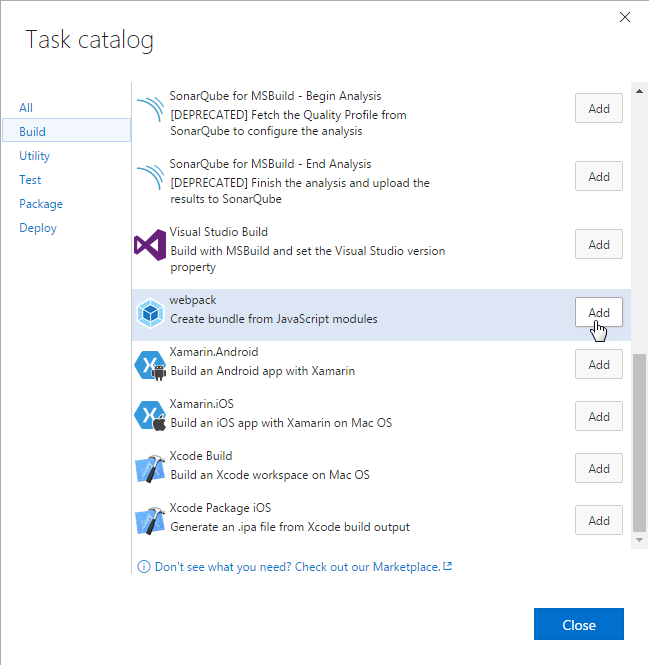
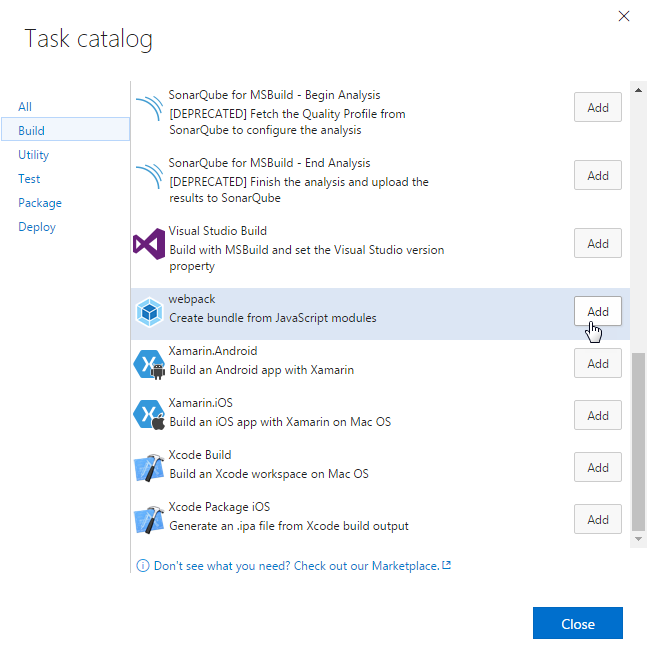
Task catalog is screenshot is updated.

diff --git a/README.md b/README.md
@@ -14,7 +14,7 @@ Source code can be found on [GitHub](https://github.com/Dealogic/webpack-vsts-ex
 
 Add the task to your build configuration:
 
-![Add webpack task]()
+![Add webpack task](https://raw.githubusercontent.com/Dealogic/webpack-vsts-extension/master/screenshots/TaskCatalog.png)
 
 ## License
 
